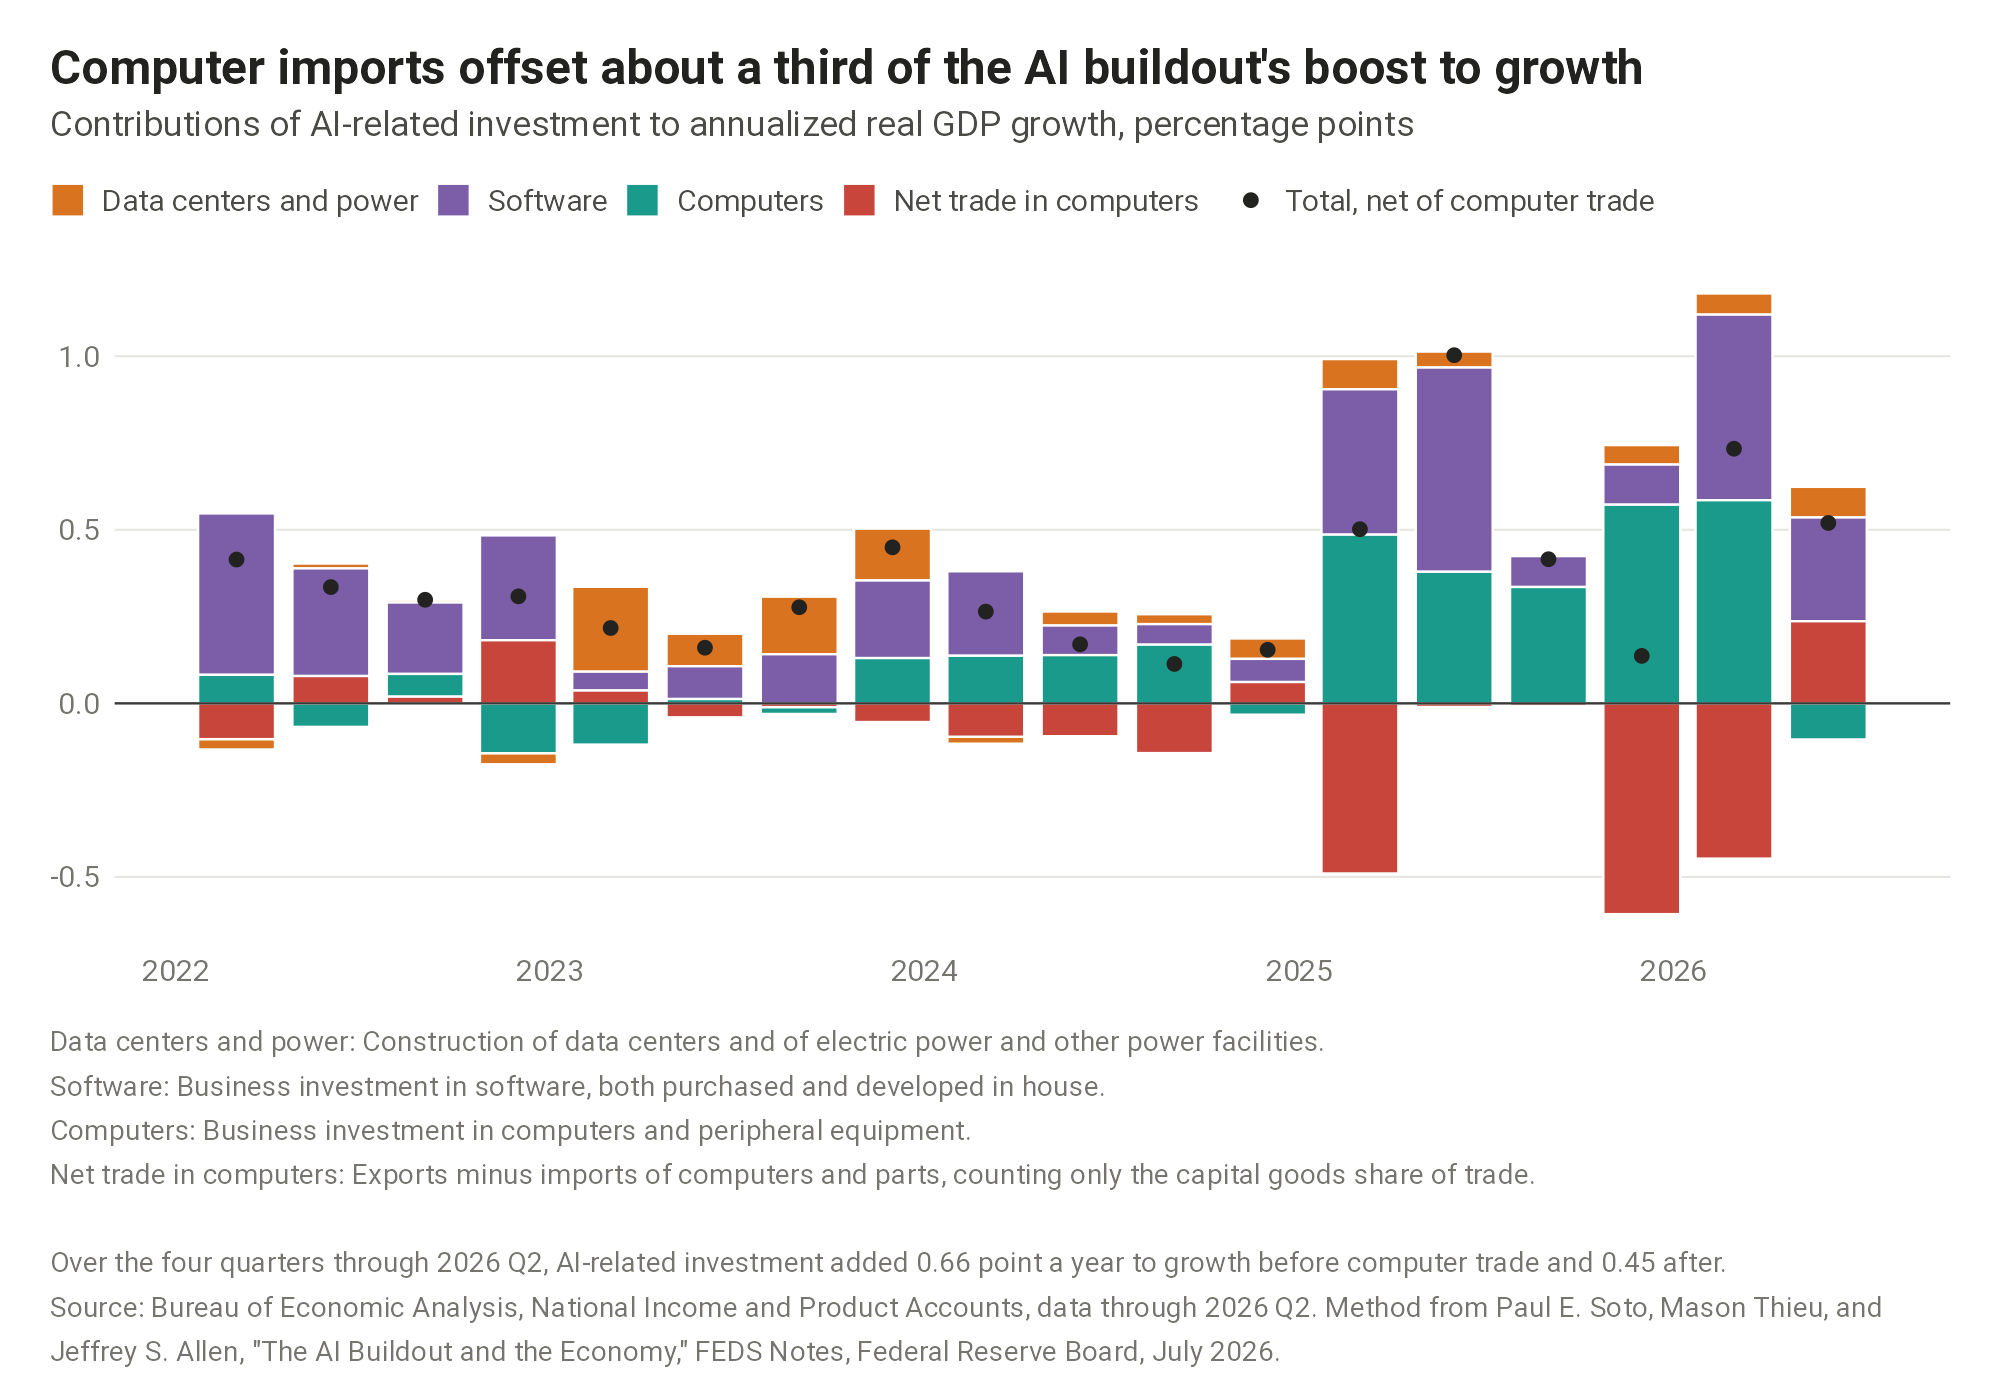
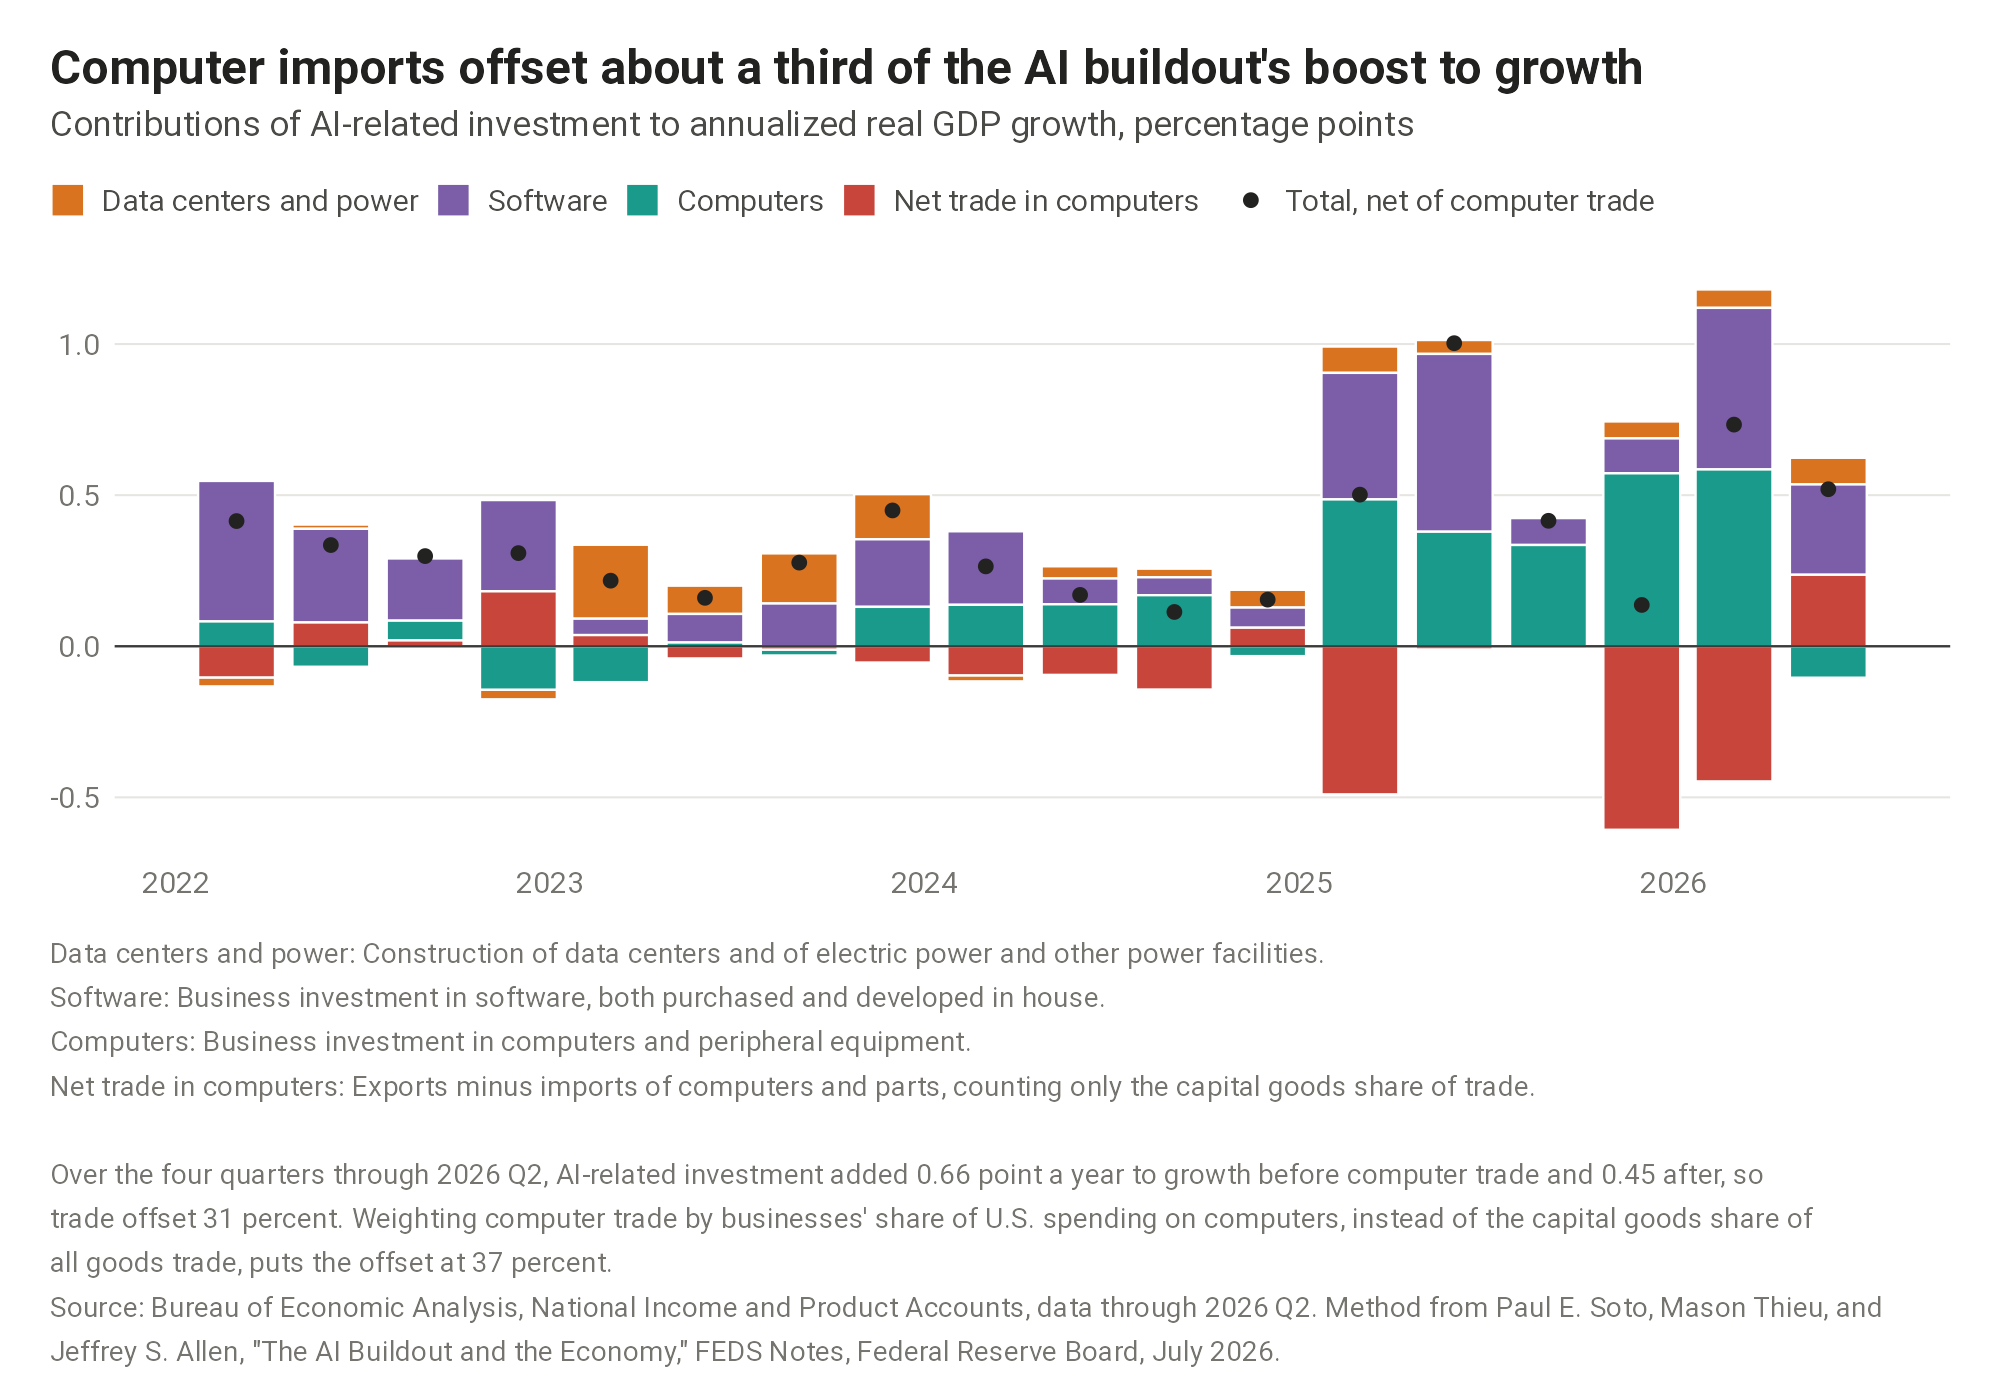
Note the offset under a computer-specific trade weight on the chart
The chart keeps the FEDS weight. Its notes now give the offset under the
BEA weight as well, 37% against 31% over the four quarters through
2026 Q2, computed from the data so it updates on refresh. The weight
function moves to contributions.R now that build.R uses it too.

Claude-Session: https://claude.ai/code/session_01C4kQtTHdakDNHHerQuEFwM

diff --git a/charts/ai-investment-gdp/spec.md b/charts/ai-investment-gdp/spec.md
@@ -40,7 +40,7 @@ All from BEA's NIPA flat files (`https://apps.bea.gov/national/Release/TXT/`), r
 | Consumer spending on personal computers, tablets, and peripherals | DCPPRC | | 2.4.5U line 49 |
 | Final sales of computers | BB01RC | | 1.2.5 line 17 |
 
-The last two are used only in `trade_weights.R`, to compare weights.
+The last two build the trade weight based on domestic spending on computers, used in the chart notes and in `trade_weights.R`.
 
 ## Transformations
 
@@ -109,7 +109,6 @@ Round trips through Mexico. Exports of parts to Mexico rose from $6 billion to $
 
 As of 2026-09-26. Not yet decided or done.
 
-- **Which weight to use.** The product mix weight and no weight fail the domestic content check. The FEDS and BEA weights both pass and give offsets of 31% and 37% over the four quarters through 2026 Q2, so the title's "about a third" holds under either. The BEA weight is specific to computers and uses the same weight on exports and imports. Its proportionality assumption probably understates the offset somewhat, since servers bought by businesses are more likely imported whole than computers bought by others. No independent check separates the two. Options: keep the FEDS weight and add a note that a computer-specific weight from BEA data gives 37%; or switch to the BEA weight and say the method is adapted. Undecided.
 - **2026 Q2 import price.** BEA's implied price of computer imports jumped about 12% in one quarter, and real imports fell 23% annualized while nominal imports rose. Check this before publishing a quarter where computer trade adds to growth.
 - **Semiconductors.** Census end-use semiconductor imports doubled between 2025 Q3 and 2026 Q2, from $67 billion to $138 billion at an annual rate. The FEDS method excludes them; ING includes them.
 - **Colors.** Orange means data centers and power here and utilization on the productivity chart, on the same page.
@@ -127,3 +126,4 @@ As of 2026-09-26. Not yet decided or done.
 - 2026-09-26: Title: "Computer imports offset about a third of the AI buildout's boost to growth." Over the four quarters through 2026 Q2, 0.66 point gross and 0.45 net, an offset of 31%.
 - 2026-09-26: Pulled Census HS detail for computer trade and compared weights. The chart keeps the FEDS weight until the weight is decided.
 - 2026-09-26: Built a weight from BEA's domestic spending on computers. It gives a 37% offset against the FEDS weight's 31%. The product mix weight is ruled out by the domestic content check.
+- 2026-09-26: Keep the FEDS weight on the chart, for exact replication. A note gives the offset under the BEA weight, computed from the data so it updates on refresh. Revisit if the two move apart.
